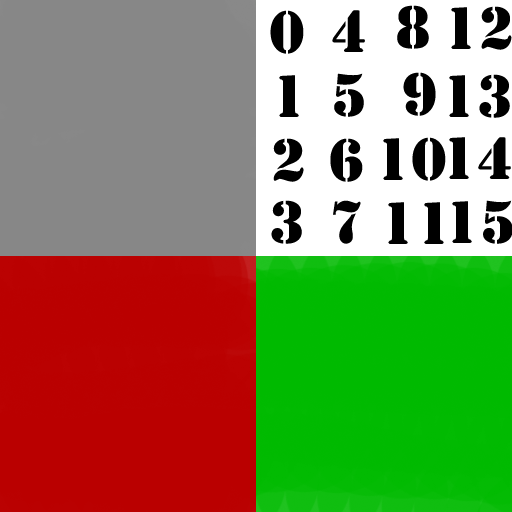
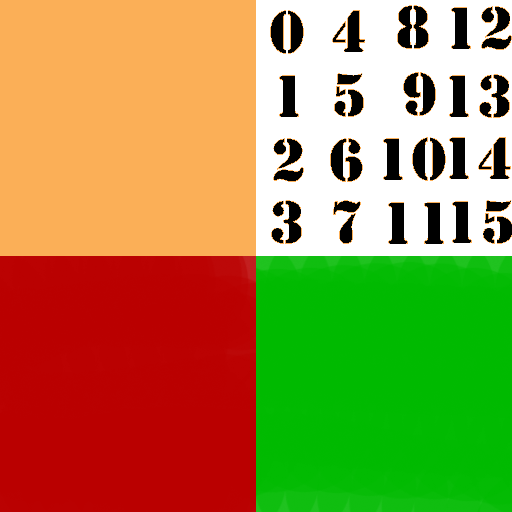
adding changes from playtesting

diff --git a/Escape/js/escape.js b/Escape/js/escape.js
@@ -56,6 +56,7 @@ Game.appInit = function ()
   Game.loadMeshPNG("winpage", "assets/win.model");
   Game.loadMeshPNG("light2", "assets/light2.model");
   // TEXTURES
+  Game.loadTextureFile("button2tex", "button2tex.png", true);
   Game.loadTextureFile("clock2tex", "clock2tex.png", true);
   Game.loadTextureFile("clock3tex", "clock3tex.png", true);
   Game.loadTextureFile("clock4tex", "clock4tex.png", true);
@@ -356,7 +357,11 @@ Game.itemClick = function(name)
         Game.assetMan.assets['clock'].groups[0].texture = "clocktex";
       else if ((Game.assetMan.assets['clock'].groups[0].texture == "clocktex") || (Game.assetMan.assets['clock'].groups[0].texture == "clock2tex"))
         Game.assetMan.assets['clock'].groups[0].texture = "clock3tex";
-      }
+      if (Game.assetMan.assets['button'].groups[0].texture == "buttontex")
+        Game.assetMan.assets['button'].groups[0].texture = "button2tex";
+      else
+        Game.assetMan.assets['button'].groups[0].texture = "buttontex";
+    }
   }
   else if (name == 'clockbattery')
   {
